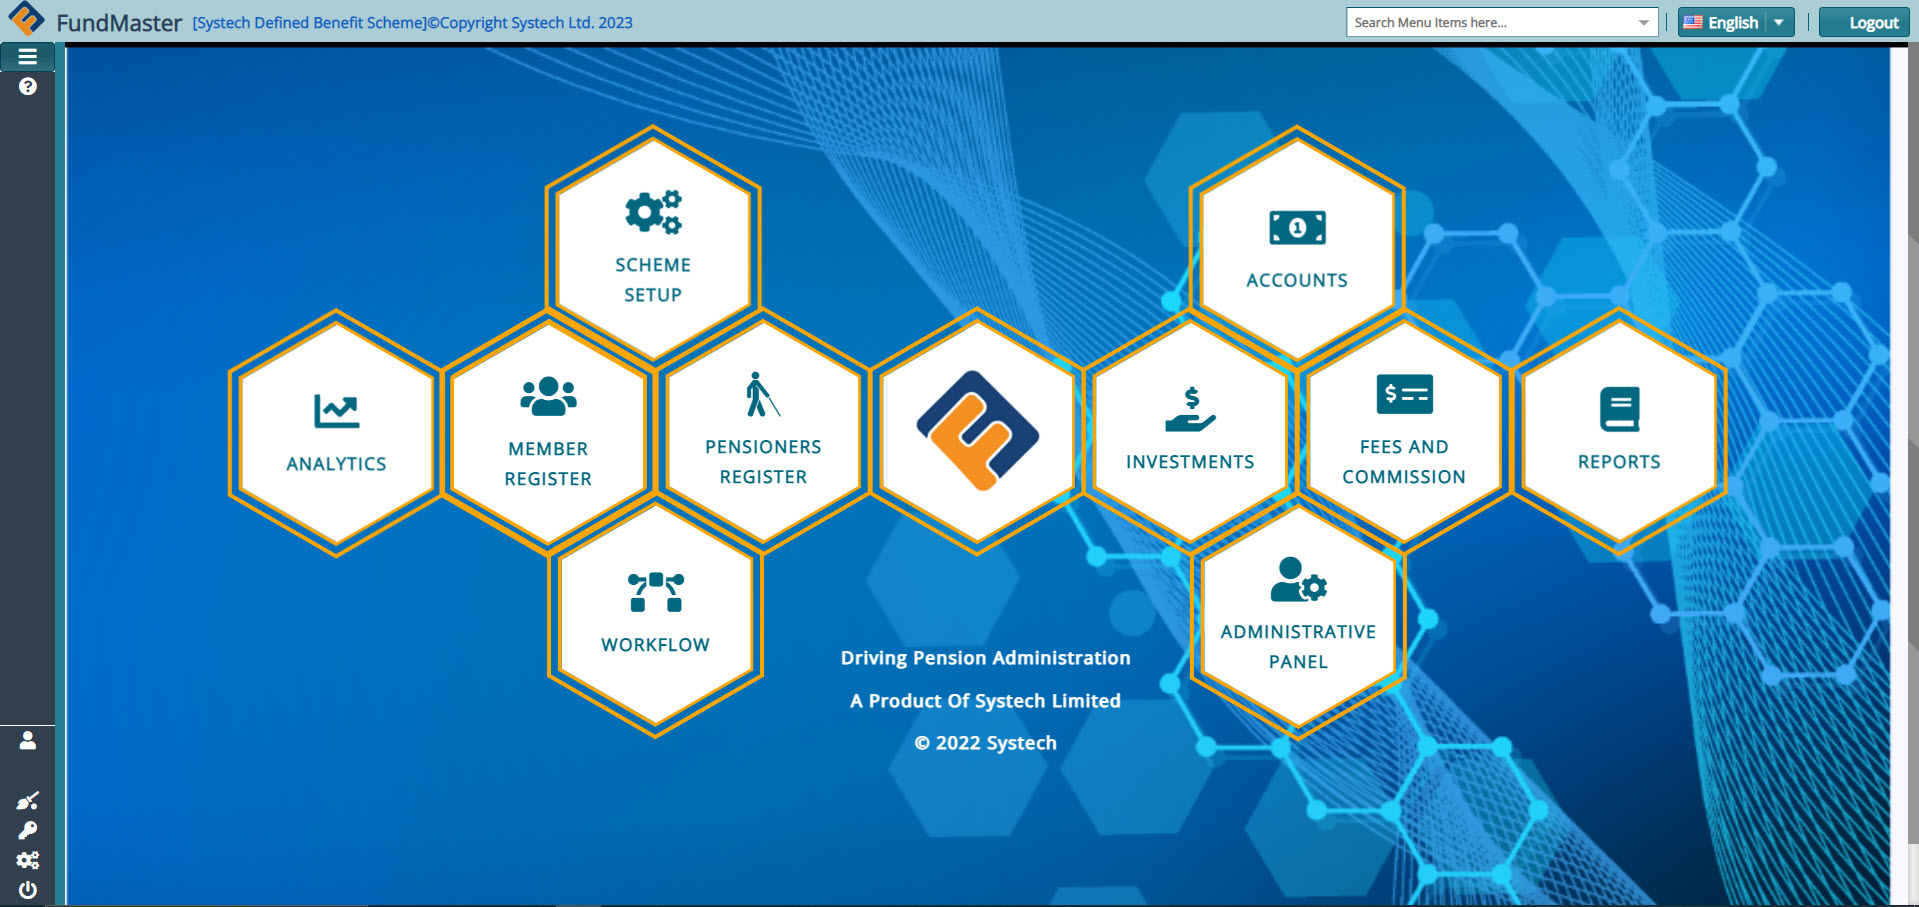
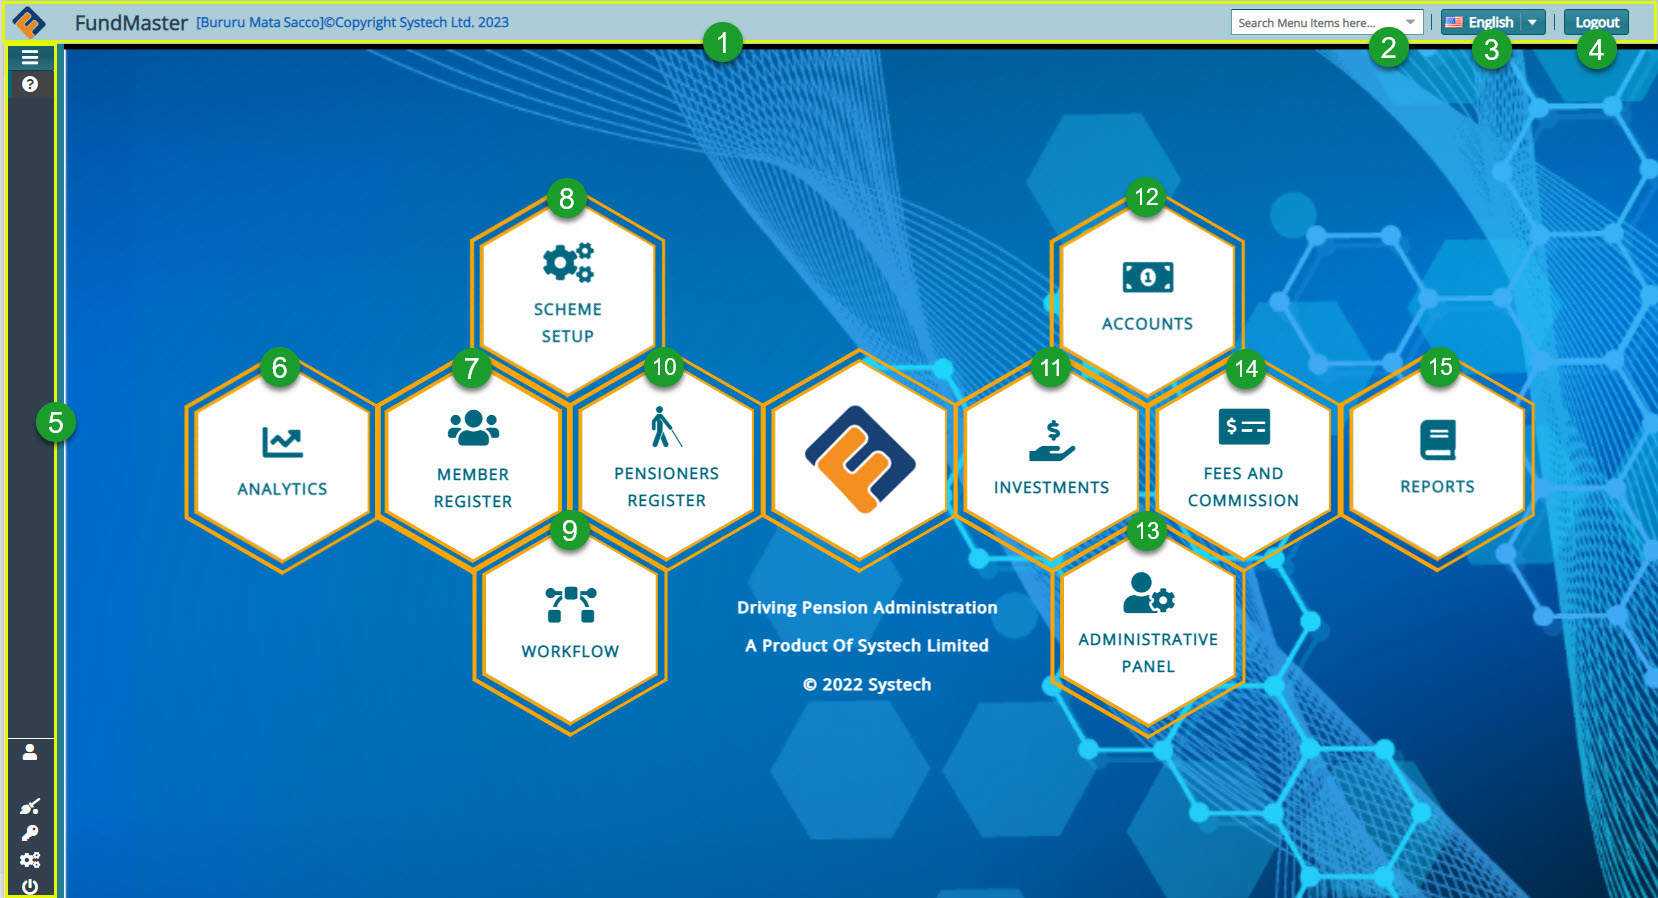
Welcome page update

diff --git a/introduction/systemAccess.md b/introduction/systemAccess.md
@@ -32,23 +32,26 @@ After inputting the access IP address, a user is directed to the login page wher
 
 This is the dashboard (with the main menu and other controls) seen on a user’s screen when one successfully logs in to FundMaster. See the screenshot below:
 
-<img  alt="Landing Page Image" width="95%" height="auto"  class="center"  src="../media/adfd17.png">  
+<img  alt="Landing Page Image" width="98%" height="auto"  class="center"  src="../media/landingPage.jpg">  
 
 
 The circled numbers in the screenshot above correspond to the numbers in the following table that describe the key navigation clickable elements on the FundMaster landing page:
 
 
-| **No.** 	| **Interface Elements**    	| **Description**                                                                                                                                   	|
-|---------	|---------------------------	|---------------------------------------------------------------------------------------------------------------------------------------------------	|
-| 1.    	| Top menu bar              	| This is the bar where the system version trademark, the name of the running scheme, language drop-down menu, and logout button is located.    	|
-| 2.     	| Language drop-down menu   	| Click to select a language of choice. This will render the navigation and content in the selected language.                                       	|
-| 3.    	| Logout button             	| Clicking this button will terminate all the running processes and close the system.                                                               	|
-| 4.    	| Main menu bar             	| This is the location of the major menu. Click to expand and display more menu items.                                                                                    	|
-| 5.    	| Scheme Setup link         	| A shortcut to launching the scheme setup module. Click to open the setup page.                                                                    	|
-| 6.    	| Investments link          	| A link to the Investments Module.                                                                                                                 	|
-| 7.    	| Workflow link             	| A link to the Workflow Module.                                                                                                                    	|
-| 8.    	| Fees and Commission link  	| A link to the Fees and Commission Module.                                                                                                         	|
-| 9.    	| Pensioners Register link  	| A link to the Pensioners Register Module.                                                                                                         	|
-| 10.   	| Administrative Panel link 	| A link to the Administrative Panel Module.                                                                                                        	 |
-| 11.   	| Accounts link             	| A link to the Accounts Module.                                                                                                                    	|
-| 12.   	| Member Register link      	| A shortcut to the Members Register Module.                                                                                                             |
+| **No.** 	| **Interface Elements**    	| **Description**                                                                    |
+|---------	|---------------------------	|------------------------	|
+| 1.    	| Top menu bar              	| This is the bar where the system version trademark, the name of the running scheme, language drop-down menu, and logout button are located.    	|
+| 2.     	| Search box   	                | A drop-down list with shortcut links for accessing key menu item.   
+| 3.     	| Language drop-down menu   	| Click to select a language of choice. This will render the navigation and   content in the selected language.                                       	|
+| 4.    	| Logout button             	| Clicking this button will terminate all the running processes and close the system.                                                               	|
+| 5.    	| Left side pane            	| This is the left side panel. Click to expand and display more menu items.                                                                                    	|
+| 6.    	| Analysis icon         	    | A link to launch the scheme setup module.                                                                     	|
+| 7.    	| Members icon                	| A link to launch the member module                                                                   	|
+| 8.    	| Scheme Setup icon          	| A link to launch the scheme setup module.                                                                                                         |
+| 9.    	| Workflow icon             	| A link to launch the workflow Module.                                                                                                         |
+| 10.    	| Pensioners Register icon      | A link to launch the pensioners module.                                                                                                         |
+| 11.    	| Investments icon  	        | A link to launch the investments Module.                                                                                                         	|
+| 12.   	| Accounts icon 	            | A link to launch the accounts Module.                                                                                                        	 |
+| 13.   	| Administrative Panel icon    	| A link to launch the Administrative panel Module.                                                                                                                    	|
+| 14.   	| Fees and Commission icon   	| A link to launch the fees and commisions module.                                                                                                           |
+| 15.   	| Reports icon              	| A link to launch the reports module.                                |

diff --git a/introduction/theMainMenuBar.md b/introduction/theMainMenuBar.md
@@ -1,22 +1,20 @@
-### Main Menu Bar
+### Left Side Pane
 
-Clicking the hamburger icon on the upper-left corner of the landing page will enable a user to expand the menu bar, allowing access to more controls. The expanded menu bar displays a help tab, on the uppermost side, for accessing the help documentation.
-
-Located on the lowermost side of the menu bar are more controls that enable other configurations for a user account. See screenshot below:
+Click the hamburger icon on the upper-left corner of the landing page to expand the pane, allowing access to more controls. The expanded pane displays a help tab on the uppermost section for accessing the help documentation. On the lower section of the pane are more controls elements for further configurations. See screenshots below:
 
 <img  alt="main menu bar Image" width="70%" height="auto"  class="center"  src="../media/adfd1.png">   
 
 
  
-| **No.**  | **Element**         | **Description**                                                                                                                                                                  |
-|----------|---------------------|----------------------------------------------------------------------------------------------------------------------------------------------------------------------------------|
-| 1.        | Help link           | A link to the help documentation for user reference. Click to open the page.                                                                                                     |
-| 2.        |   Account config    | A section with links for configuring user account details.                                                                                                                       |
-| 2(a). |   Profile           | This is where the logged in user's profile name is displayed.                                                                                                                      |
-| 2(b). |   Switch Scheme     | Allows a user to change from the currently running scheme to another without terminating a session. Note that a successful switch will change the scheme name on the uppermost bar |
-| 2(c). |   Change Password   | Allows a user to change password for security reasons.                                                                                                                          |
-| 2(d). |   Products Setup    | Clicking on this link will open the products page to view available products and create new.                                                                        |
-| 2(e). |   Logout            | Click to terminate all the running processes and close the current profile account ready to log in as a new user.                                                                |
+| **No.**  | **Element**          | **Description**                                                                                                 |
+|-----------|----------------------------|-----------------------------------------------------------------------|
+| 1.        |   Help link           | A link to the help documentation for user reference. Click to open the page.                                                                                                     |
+| 2.        |   Account config      | A section with links for configuring user account details.                                                                                                                       |
+| 2(a).     |   User Profile        | This is where the logged in user's profile name is displayed.                                                                                                                      |
+| 2(b).     |   Switch Scheme       | A link to the schemes page where a user able to switch from the currently running scheme to another without terminating a session.|
+| 2(c).     |   Change Password     | Allows a user to change password for security reasons.                                                                                                                          |
+| 2(d).     |   Products Setup      | Clicking on this link will open the products page to view available products and create new.                                                                        |
+| 2(e).     |   Logout              | Click to terminate all the running processes and close the current profile account ready to log in as a new user.                                                                |
  
  
  ## Product Setup
@@ -28,7 +26,7 @@ Clicking the **Product Setup** link labelled 2(d), will open a window displaying
 Clicking the **Product** tab will open a window displaying a list of all fund products in the system. From this window, the details of each product can be viewed, new products added, and the product sequence seen as shown below:
 
 
-<img  alt="fund products Image" width="90%" height="auto"  class="center"  src="../media/adfd15.png">   
+<img  alt="fund products Image" width="9%" height="auto"  class="center"  src="../media/adfd15.png">   
 
 
 **Action**

diff --git a/schemesetup/introduction.md b/schemesetup/introduction.md
@@ -25,11 +25,11 @@ To access the Scheme Setup dashboard, click the **Scheme Setup** link on the Fun
 Access more Scheme configuration links from the left side panel of the **Setup Links** Window.
 
 **Tip**
-- links are arranged into categories making the order of configurations convenient. See the screenshot shown below:
+- links are arranged into categories making the order of configurations convenient. See screenshot below:
 
 <img  alt="scheme configuration panel image" width="60%" height="auto"  class="center"  src="../media2/schemeM69.png">  
 
 
 **Action**
 
--	Click a link under the left side panel to open a dialogue box through which a specific scheme setting can be configured.
+-	Click a link under the left side panel to open a dialog box through which a specific scheme setting can be configured.

diff --git a/README.md b/README.md
@@ -2,5 +2,5 @@
 
 FundMaster is the most advanced Pension Administration and Investments Management System designed for the pension industry.
 
-<img  alt="FundMaster" width="98%" height="auto"  class="center"  src="../media/landingpage.png"> 
+<img  alt="FundMaster" width="98%" height="auto"  class="center"  src="../media/welcome.jpg"> 
 

diff --git a/reports/batchMembersReport.md b/reports/batchMembersReport.md
@@ -4,6 +4,7 @@ To generate members statement report for all members (a batch) in a scheme, foll
 
 <img  alt="Reports Module" width="95%" height="auto"  class="center"  src="../media9/batchreport.png"> 
 
+
 **Action**
 
 - Click **label 1** button to select type of report from the report’s menu.

diff --git a/reports/introduction.md b/reports/introduction.md
@@ -16,6 +16,7 @@ After clicking the Reports link, as shown in the previous screenshot, the user i
 
 <img  alt="Reports Module" width="80%" height="auto"  class="center"  src="../media9/login.png"> 
 
+
 **Action**
 
 - Type Username and Password respectively in text boxes **labelled 1**.
